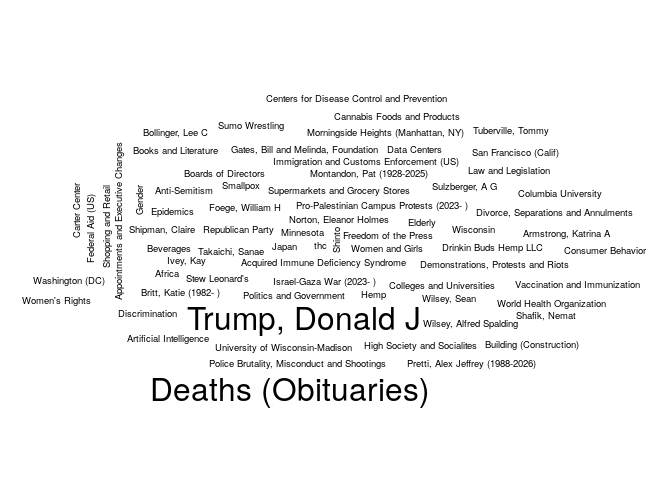
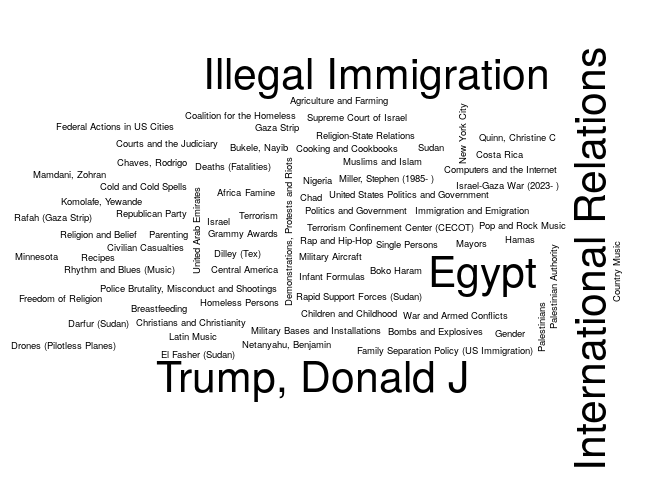
Updating the NYT report

Changed region(s): [[0.0312, 0.0938, 0.9688, 1.0], [0.0312, 0.6875, 0.1875, 0.75]]

diff --git a/03-nytimes/README.md b/03-nytimes/README.md
@@ -5,7 +5,7 @@ The following is an example of how to use the [NYTimes
 API](https://developer.nytimes.com/) to get a list of articles related
 to a particular term. Here we are searching articles that include the
 term `"health"`, and that were published up to seven days ago since
-2026-01-26.
+2026-02-02.
 
 ``` r
 # Preparing a function to use the GET method with the NYTimes API
@@ -83,25 +83,25 @@ colnames(tab) <- c("Keyword", "# Articles")
 knitr::kable(tab, row.names = FALSE)
 ```
 
-| Keyword                                    | \# Articles |
-|:-------------------------------------------|------------:|
-| United States Politics and Government      |          20 |
-| Deaths (Obituaries)                        |          10 |
-| Trump, Donald J                            |          10 |
-| Acquired Immune Deficiency Syndrome        |           5 |
-| Africa                                     |           5 |
-| Anti-Semitism                              |           5 |
-| Appointments and Executive Changes         |           5 |
-| Armstrong, Katrina A                       |           5 |
-| Artificial Intelligence                    |           5 |
-| Beverages                                  |           5 |
-| Boards of Directors                        |           5 |
-| Bollinger, Lee C                           |           5 |
-| Books and Literature                       |           5 |
-| Britt, Katie (1982- )                      |           5 |
-| Building (Construction)                    |           5 |
-| Cannabis Foods and Products                |           5 |
-| Carter Center                              |           5 |
-| Centers for Disease Control and Prevention |           5 |
-| Colleges and Universities                  |           5 |
-| Columbia University                        |           5 |
+| Keyword                                          | \# Articles |
+|:-------------------------------------------------|------------:|
+| Defense and Military Forces                      |          15 |
+| War Crimes, Genocide and Crimes Against Humanity |          15 |
+| Egypt                                            |          10 |
+| Illegal Immigration                              |          10 |
+| Immigration and Customs Enforcement (US)         |          10 |
+| International Relations                          |          10 |
+| Trump, Donald J                                  |          10 |
+| United States International Relations            |          10 |
+| Africa                                           |           5 |
+| Agriculture and Farming                          |           5 |
+| Boko Haram                                       |           5 |
+| Bombs and Explosives                             |           5 |
+| Breastfeeding                                    |           5 |
+| Bukele, Nayib                                    |           5 |
+| Central America                                  |           5 |
+| Chad                                             |           5 |
+| Chaves, Rodrigo                                  |           5 |
+| Children and Childhood                           |           5 |
+| Christians and Christianity                      |           5 |
+| Civilian Casualties                              |           5 |
